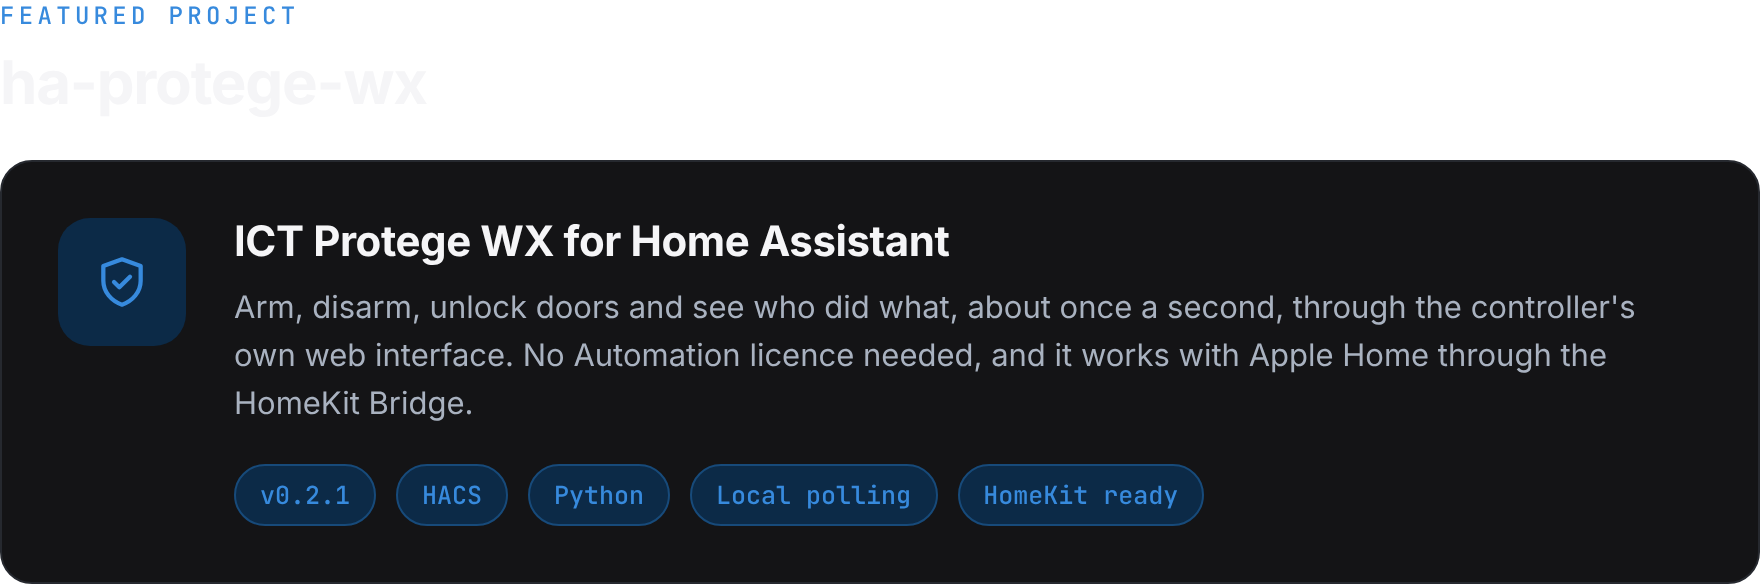
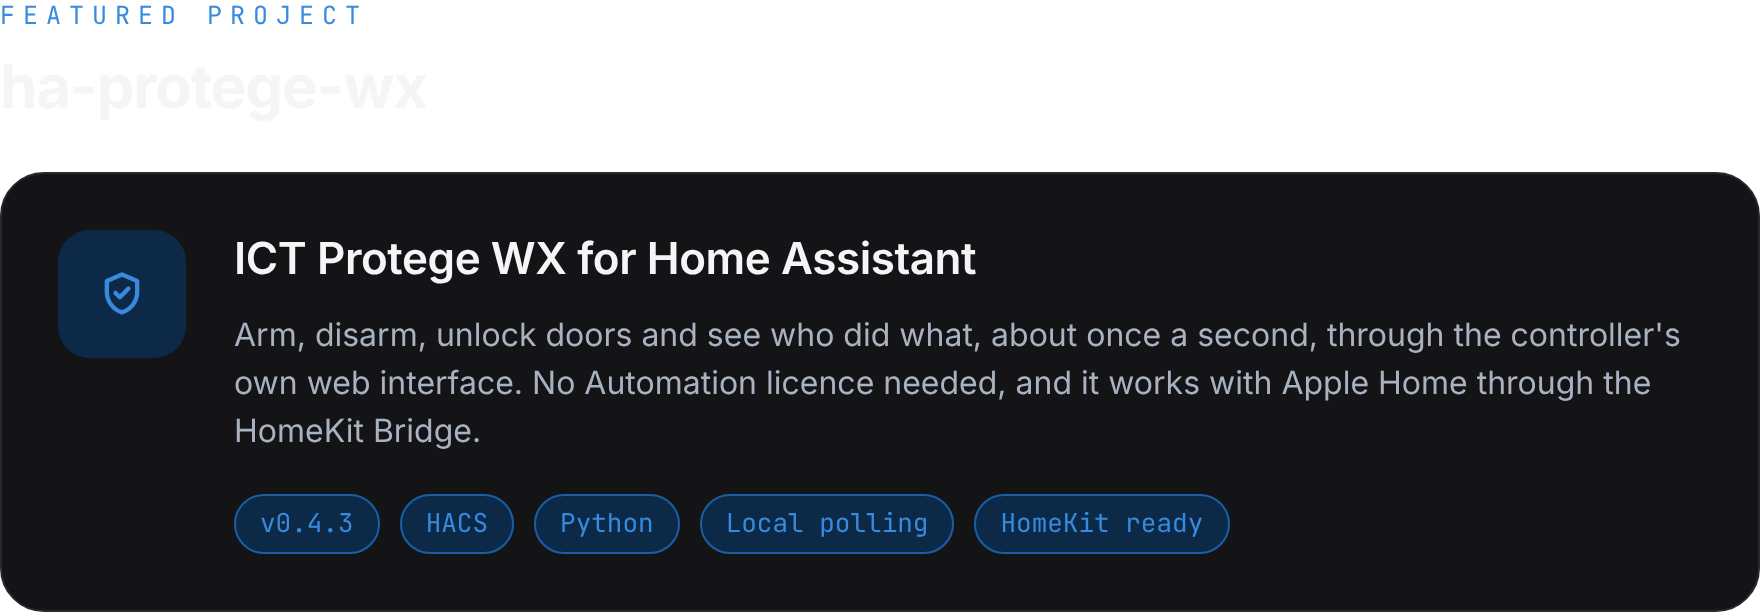
Add ha-nec-pbx to the profile; protege card shows v0.4.3

diff --git a/README.md b/README.md
@@ -24,6 +24,20 @@
 
 <br>
 
+<a href="https://github.com/olliemaller/ha-nec-pbx">
+  <picture>
+    <source media="(prefers-color-scheme: dark)" srcset="assets/project-nec-dark.png">
+    <img src="assets/project-nec-light.png" width="100%" alt="New project: ha-nec-pbx, NEC SL2100 and SV9100 for Home Assistant. Who called, which room answered and what was missed, read from the phone system's own call log over the network. No CTI licence, no cloud and no extra software on the PBX.">
+  </picture>
+</a>
+
+<p>
+  <a href="https://github.com/olliemaller/ha-nec-pbx"><b>View the repository</b></a> ·
+  <a href="https://my.home-assistant.io/redirect/hacs_repository/?owner=olliemaller&repository=ha-nec-pbx&category=integration">Open in HACS</a>
+</p>
+
+<br>
+
 <picture>
   <source media="(prefers-color-scheme: dark)" srcset="assets/toolbox-dark.png">
   <img src="assets/toolbox-light.png" width="100%" alt="Toolbox. Networks and smart home: UniFi Network, UniFi Protect, UniFi Access, Apple HomeKit, Home Assistant, Homebridge, ESPHome, Paradox, ICT Protege. Homelab and infrastructure: Proxmox, Docker, Kubernetes, Linux, Cloudflare, AWS, Azure, Terraform. Code and everyday: Python, JavaScript, Bash, Git, GitHub Actions, macOS, Windows.">
